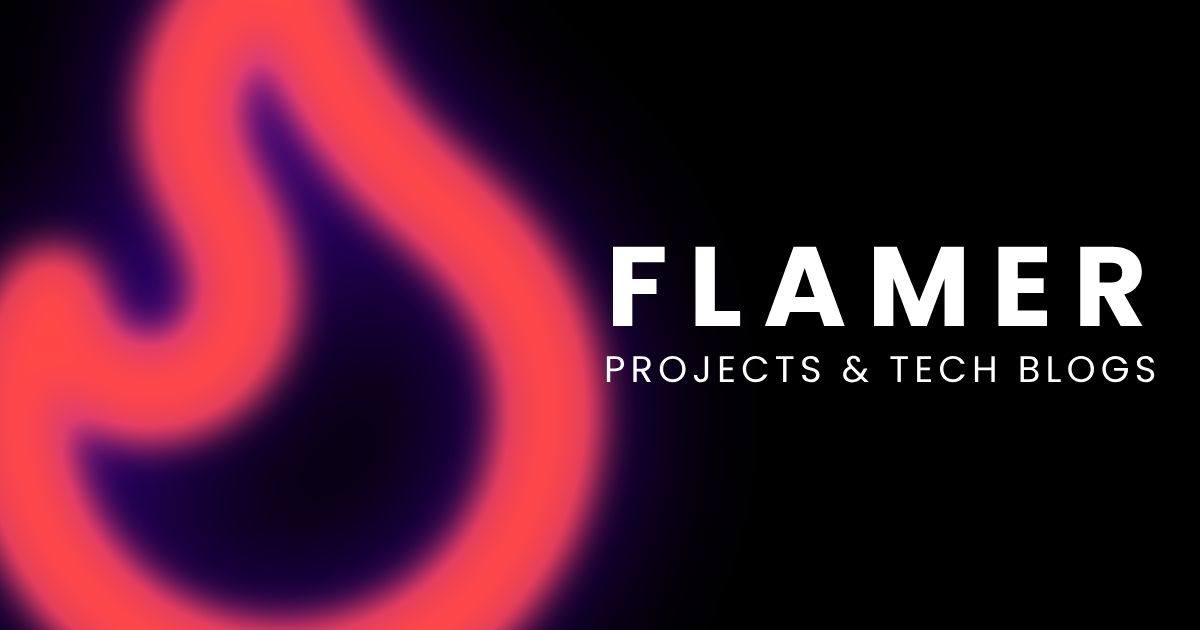
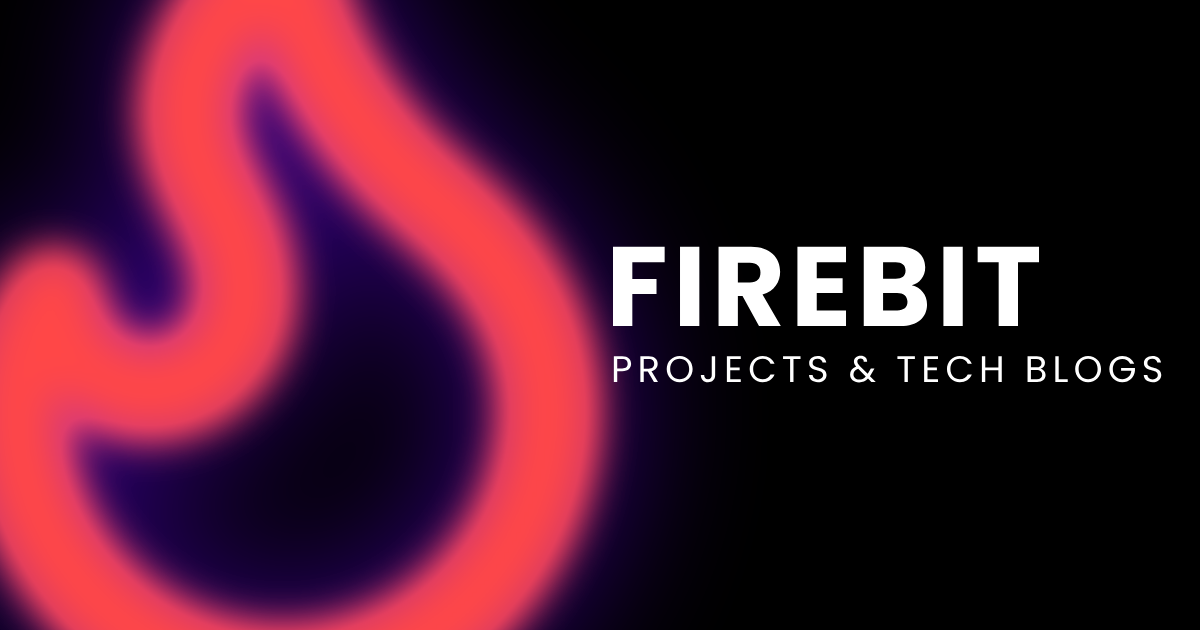
got a new domain, so changing name

Changed region(s): [[0.4933, 0.3921, 0.9867, 0.6032], [0.8325, 0.3921, 0.9558, 0.5127]]

diff --git a/public/stories/fingerprint-attendance-system-fingle.html b/public/stories/fingerprint-attendance-system-fingle.html
@@ -5,7 +5,7 @@
       <meta charset="utf-8" />
       <title>Portable Fingerprint Attendance System 😱</title>
       <meta name="description" content="undefined">
-      <link rel="canonical" href="https://flamer-m.vercel.app/stories/fingerprint-attendance-system-fingle.html" />
+      <link rel="canonical" href="https://firebit.in/stories/fingerprint-attendance-system-fingle.html" />
       <meta name="viewport" content="width=device-width,minimum-scale=1,initial-scale=1" />
       <style amp-boilerplate>body{-webkit-animation:-amp-start 8s steps(1,end) 0s 1 normal both;-moz-animation:-amp-start 8s steps(1,end) 0s 1 normal both;-ms-animation:-amp-start 8s steps(1,end) 0s 1 normal both;animation:-amp-start 8s steps(1,end) 0s 1 normal both}@-webkit-keyframes -amp-start{from{visibility:hidden}to{visibility:visible}}@-moz-keyframes -amp-start{from{visibility:hidden}to{visibility:visible}}@-ms-keyframes -amp-start{from{visibility:hidden}to{visibility:visible}}@-o-keyframes -amp-start{from{visibility:hidden}to{visibility:visible}}@keyframes -amp-start{from{visibility:hidden}to{visibility:visible}}</style><noscript><style amp-boilerplate>body{-webkit-animation:none;-moz-animation:none;-ms-animation:none;animation:none}</style></noscript>
       <script async src="https://cdn.ampproject.org/v0.js"></script>

diff --git a/public/stories/bpm-oxygen-monitoring-oxilive.html b/public/stories/bpm-oxygen-monitoring-oxilive.html
@@ -5,7 +5,7 @@
       <meta charset="utf-8" />
       <title>Track Realtime BPM & Blood Oxygen Level 🧐</title>
       <meta name="description" content="undefined">
-      <link rel="canonical" href="https://flamer-m.vercel.app/stories/bpm-oxygen-monitoring-oxilive.html" />
+      <link rel="canonical" href="https://firebit.in/stories/bpm-oxygen-monitoring-oxilive.html" />
       <meta name="viewport" content="width=device-width,minimum-scale=1,initial-scale=1" />
       <style amp-boilerplate>body{-webkit-animation:-amp-start 8s steps(1,end) 0s 1 normal both;-moz-animation:-amp-start 8s steps(1,end) 0s 1 normal both;-ms-animation:-amp-start 8s steps(1,end) 0s 1 normal both;animation:-amp-start 8s steps(1,end) 0s 1 normal both}@-webkit-keyframes -amp-start{from{visibility:hidden}to{visibility:visible}}@-moz-keyframes -amp-start{from{visibility:hidden}to{visibility:visible}}@-ms-keyframes -amp-start{from{visibility:hidden}to{visibility:visible}}@-o-keyframes -amp-start{from{visibility:hidden}to{visibility:visible}}@keyframes -amp-start{from{visibility:hidden}to{visibility:visible}}</style><noscript><style amp-boilerplate>body{-webkit-animation:none;-moz-animation:none;-ms-animation:none;animation:none}</style></noscript>
       <script async src="https://cdn.ampproject.org/v0.js"></script>

diff --git a/src/lib/generateStaticHTML.ts b/src/lib/generateStaticHTML.ts
@@ -60,7 +60,7 @@ function generateAmpStoryHtml(story: any) {
       <meta charset="utf-8" />
       <title>${story.title}</title>
       <meta name="description" content="${story.description}">
-      <link rel="canonical" href="https://flamer-m.vercel.app/stories/${story.slug}.html" />
+      <link rel="canonical" href="https://firebit.in/stories/${story.slug}.html" />
       <meta name="viewport" content="width=device-width,minimum-scale=1,initial-scale=1" />
       <style amp-boilerplate>body{-webkit-animation:-amp-start 8s steps(1,end) 0s 1 normal both;-moz-animation:-amp-start 8s steps(1,end) 0s 1 normal both;-ms-animation:-amp-start 8s steps(1,end) 0s 1 normal both;animation:-amp-start 8s steps(1,end) 0s 1 normal both}@-webkit-keyframes -amp-start{from{visibility:hidden}to{visibility:visible}}@-moz-keyframes -amp-start{from{visibility:hidden}to{visibility:visible}}@-ms-keyframes -amp-start{from{visibility:hidden}to{visibility:visible}}@-o-keyframes -amp-start{from{visibility:hidden}to{visibility:visible}}@keyframes -amp-start{from{visibility:hidden}to{visibility:visible}}</style><noscript><style amp-boilerplate>body{-webkit-animation:none;-moz-animation:none;-ms-animation:none;animation:none}</style></noscript>
       <script async src="https://cdn.ampproject.org/v0.js"></script>

diff --git a/public/stories/power-tracker-app-story.html b/public/stories/power-tracker-app-story.html
@@ -5,7 +5,7 @@
       <meta charset="utf-8" />
       <title>Track Realtime Power Consumption 😱</title>
       <meta name="description" content="undefined">
-      <link rel="canonical" href="https://flamer-m.vercel.app/stories/power-tracker-app-story.html" />
+      <link rel="canonical" href="https://firebit.in/stories/power-tracker-app-story.html" />
       <meta name="viewport" content="width=device-width,minimum-scale=1,initial-scale=1" />
       <style amp-boilerplate>body{-webkit-animation:-amp-start 8s steps(1,end) 0s 1 normal both;-moz-animation:-amp-start 8s steps(1,end) 0s 1 normal both;-ms-animation:-amp-start 8s steps(1,end) 0s 1 normal both;animation:-amp-start 8s steps(1,end) 0s 1 normal both}@-webkit-keyframes -amp-start{from{visibility:hidden}to{visibility:visible}}@-moz-keyframes -amp-start{from{visibility:hidden}to{visibility:visible}}@-ms-keyframes -amp-start{from{visibility:hidden}to{visibility:visible}}@-o-keyframes -amp-start{from{visibility:hidden}to{visibility:visible}}@keyframes -amp-start{from{visibility:hidden}to{visibility:visible}}</style><noscript><style amp-boilerplate>body{-webkit-animation:none;-moz-animation:none;-ms-animation:none;animation:none}</style></noscript>
       <script async src="https://cdn.ampproject.org/v0.js"></script>

diff --git a/public/stories/the-curious-cat-story.html b/public/stories/the-curious-cat-story.html
@@ -5,7 +5,7 @@
       <meta charset="utf-8" />
       <title>Do you like pets? Welcome to pet zone!</title>
       <meta name="description" content="undefined">
-      <link rel="canonical" href="https://flamer-m.vercel.app/stories/the-curious-cat-story.html" />
+      <link rel="canonical" href="https://firebit.in/stories/the-curious-cat-story.html" />
       <meta name="viewport" content="width=device-width,minimum-scale=1,initial-scale=1" />
       <style amp-boilerplate>body{-webkit-animation:-amp-start 8s steps(1,end) 0s 1 normal both;-moz-animation:-amp-start 8s steps(1,end) 0s 1 normal both;-ms-animation:-amp-start 8s steps(1,end) 0s 1 normal both;animation:-amp-start 8s steps(1,end) 0s 1 normal both}@-webkit-keyframes -amp-start{from{visibility:hidden}to{visibility:visible}}@-moz-keyframes -amp-start{from{visibility:hidden}to{visibility:visible}}@-ms-keyframes -amp-start{from{visibility:hidden}to{visibility:visible}}@-o-keyframes -amp-start{from{visibility:hidden}to{visibility:visible}}@keyframes -amp-start{from{visibility:hidden}to{visibility:visible}}</style><noscript><style amp-boilerplate>body{-webkit-animation:none;-moz-animation:none;-ms-animation:none;animation:none}</style></noscript>
       <script async src="https://cdn.ampproject.org/v0.js"></script>

diff --git a/src/app/landing.css b/src/app/landing.css
@@ -1,10 +1,15 @@
+html.dark:root {
+    --bg-color: #db292980;
+}
+
 .gallery-container {
-    background: rgba(231, 170, 170, 0.5);
-    background: radial-gradient(circle, rgba(234, 194, 194, 0.5) 30%, rgba(0, 212, 255, 0) 70%);
+    background: var(--bg-color);
+    background: radial-gradient(circle, var(--bg-color) 0%, rgba(0, 212, 255, 0) 80%);
+    background-size: 30rem 30rem;
+    background-position: center;
+    background-repeat: no-repeat;
 }
 html.dark .gallery-container {
-    background: rgba(219, 41, 41, 0.5);
-    background: radial-gradient(circle, rgba(219, 41, 41, 0.5) 30%, rgba(0, 212, 255, 0) 70%);
     transition: all 700ms;
     opacity: 0;
 }
@@ -15,6 +20,7 @@ html.loaded .gallery-container {
 }
 
 :root {
+    --bg-color: #e7aaaa80;
     --translate: 10%;
     --slide-duration: 1000ms;
     --slide-easing: cubic-bezier(0.09, 0.77, 0, 1);

diff --git a/src/components/Search.tsx b/src/components/Search.tsx
@@ -57,7 +57,7 @@ export default function Search() {
             </div>
 
             <CommandDialog open={open} onOpenChange={setOpen} aria-describedby={"search-bar"}>
-                <DialogTitle className="p-4 font-bold text-slate-400">Flamer</DialogTitle>
+                <DialogTitle className="p-4 font-bold text-slate-400">FireBit</DialogTitle>
                 <CommandInput placeholder="search..." />
                 <CommandList aria-describedby="list-of-all-blogs-and-projects">
                     <CommandEmpty>No results found.</CommandEmpty>

diff --git a/src/app/(blogroutes)/layout.tsx b/src/app/(blogroutes)/layout.tsx
@@ -10,8 +10,8 @@ const inter = Inter({ subsets: ["latin"] });
 
 export const metadata: Metadata = {
     title: {
-        default: "Flamer - Tech Blogs & Projects",
-        template: "%s | Flamer",
+        default: "FireBit - Tech Blogs & Projects",
+        template: "%s | FireBit",
     },
     description: "Explore tech blogs and innovative projects showcasing the latest in technology and development.",
 };

diff --git a/src/components/Header.tsx b/src/components/Header.tsx
@@ -45,7 +45,7 @@ const Header = () => {
                             <div>
                                 <Flame color="#ff0000" />
                             </div>
-                            <h4 className="font-bold text-xl">Flamer</h4>
+                            <h4 className="font-bold text-xl">FireBit</h4>
                         </div>
                     </Link>
 
